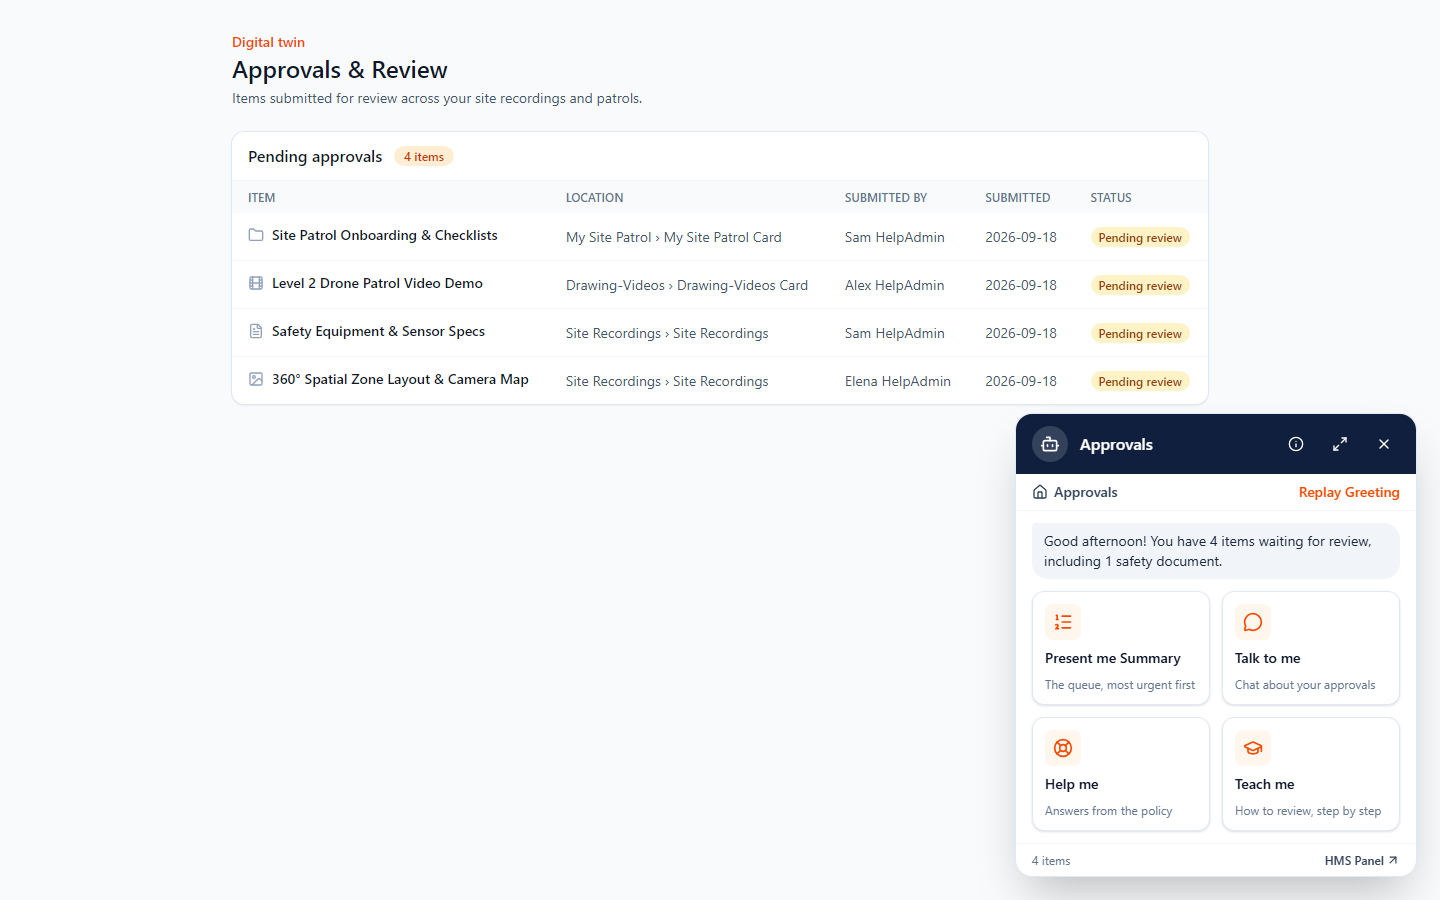
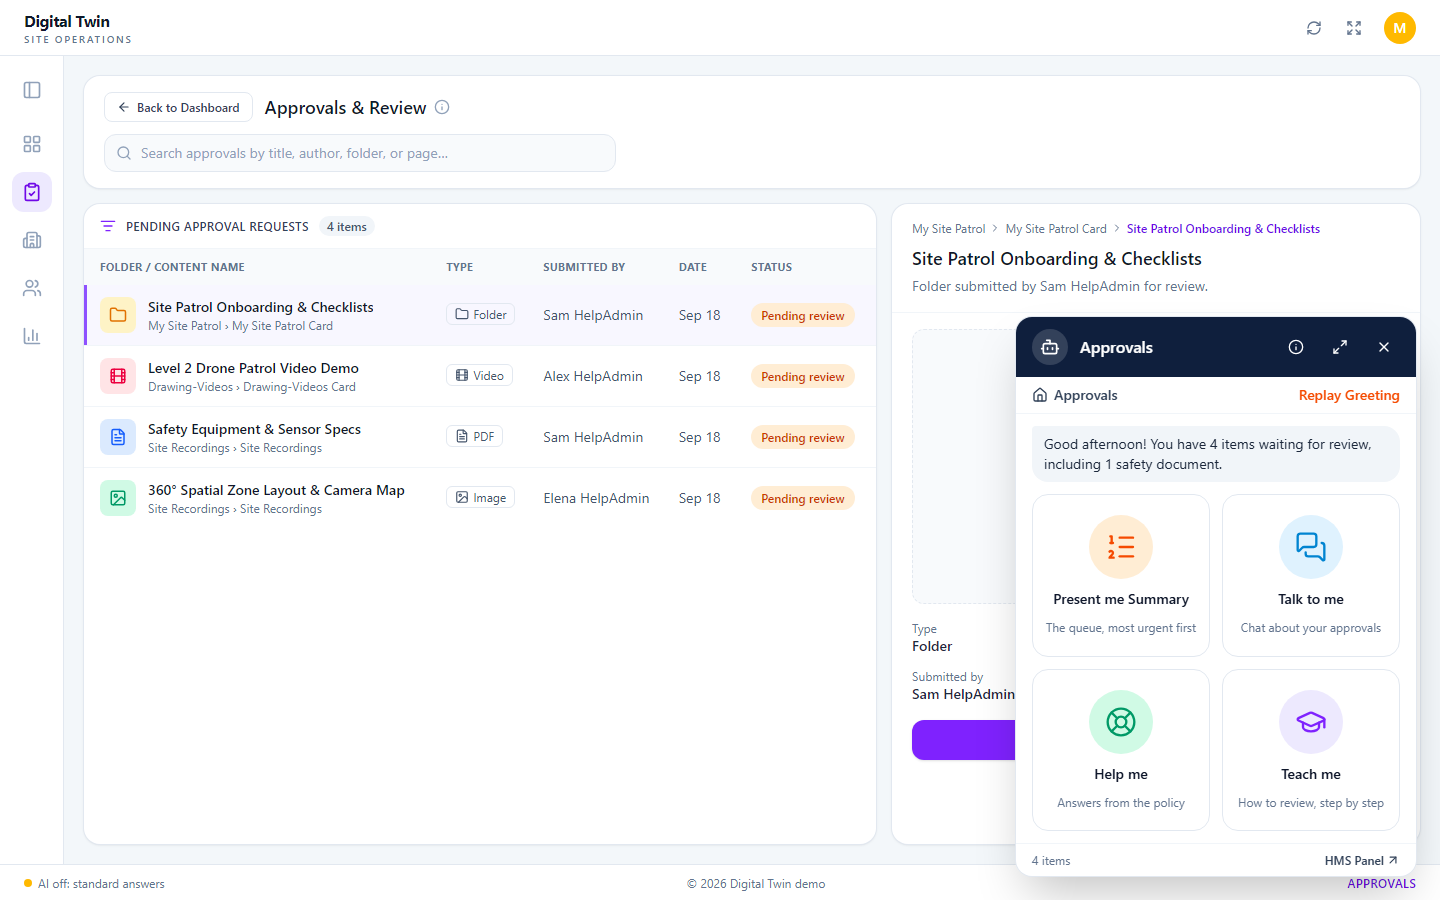
docs: refresh screenshots for the redesigned page

diff --git a/README.md b/README.md
@@ -16,7 +16,12 @@ breaks the UI: the user always gets a usable answer, marked "AI unavailable, sho
 
 ![The Approvals & Review page with the assistant panel open on its home view](docs/screenshots/panel-desktop.png)
 
-On narrow screens the panel docks full-width at the bottom ([mobile screenshot](docs/screenshots/panel-mobile.png)).
+The page has a searchable queue, a detail pane for the selected item, and a status bar showing whether the AI is
+connected. More views: [summary with fallback items](docs/screenshots/panel-summary.png) ·
+[mobile, where the panel docks full-width at the bottom](docs/screenshots/panel-mobile.png).
+
+The layout follows the reference dashboard's structure, but uses an original name and Lucide icons instead of
+OomniEye's logo and illustrations.
 
 ## 1. Setup
 
@@ -56,8 +61,8 @@ npm run lint           # ESLint (no `any` allowed)
 npm run format:check   # Prettier
 ```
 
-Current totals: **244 API tests and 40 web tests**. Coverage: API 96.6% statements / 86.3% branches, web 93.5% /
-83.4%. Every feature was built test-first: the history shows a failing `test(...) (red)` commit before each
+Current totals: **244 API tests and 45 web tests**. Coverage: API 96.6% statements / 86.3% branches, web 93.8% /
+83.5%. Every feature was built test-first: the history shows a failing `test(...) (red)` commit before each
 `feat(...) (green)` commit.
 
 **Live model testing.** This project was built and tested without a live API key. The real Anthropic path is covered by
